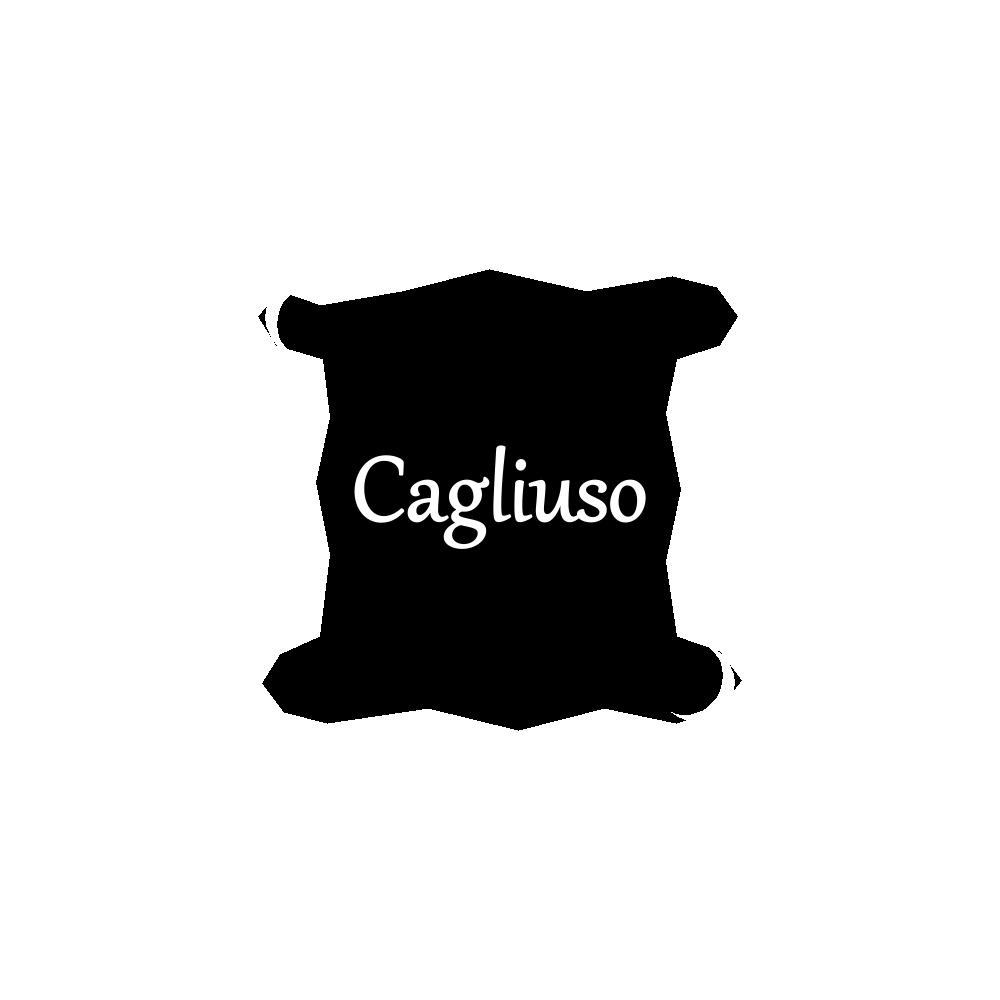
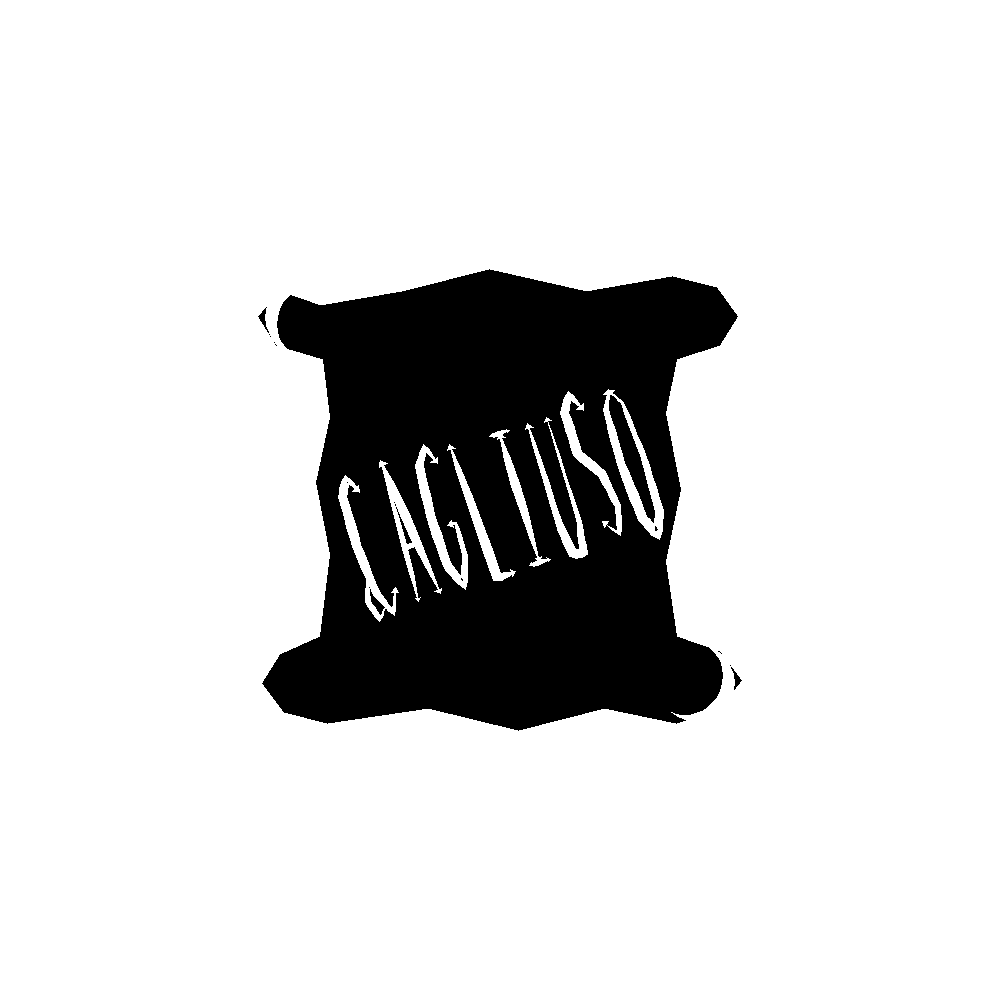
Page: name as carved knife-cut lettering, diagonal at -18 deg across the scroll (Codex PG7d, reviewed; Gary 'carved out look ... diagonally'); page size 0.28 -> 0.34 boy height for >= 2 px cuts; font path now optional/off; harness 44/44

Changed region(s): [[0.341, 0.372, 0.682, 0.62]]

diff --git a/Tools/ShadowGobo/Puppets/props.py b/Tools/ShadowGobo/Puppets/props.py
@@ -50,9 +50,11 @@ LOOK = {
                "stream_width": 0.30, "splash_scale": 2.2,
                # stop higher/forward and pour onto the FRONT of the face so the stream crosses light (review 9 Oct)
                "stop_xy": (0.55, 0.030), "target_xy": (0.402, 0.165)},
-    "page": {"attach": "boy_near_hand", "size_boy_height": 0.28, "page_text": "Cagliuso",
-             # Gary 9 Oct: "a calligraphic feeling font"; the atlas is the artifact, so a local font is fine.
-             "page_font": "C:/Windows/Fonts/Gabriola.ttf", "page_text_width": 0.82, "page_text_bold": 0.003},
+    "page": {"attach": "boy_near_hand", "size_boy_height": 0.34, "page_text": "Cagliuso",
+             # PG7d: a font remains an explicit opt-in; the production default is carved polygonal lettering.
+             "page_font": None, "page_text_width": 0.85, "page_text_bold": 0.003,
+             "page_text_angle_deg": -18.0, "page_text_diagonal_fill": 0.85,
+             "page_text_seed": 1709, "page_wedge_down": 0.066, "page_wedge_thin": 0.038},
     "turnip": {"attach": "boy_near_hand", "size_boy_height": 0.12, "bite_seconds": 0.24},
     "pearl": {"attach_from": "puss_mouth", "attach_to": "boy_near_hand", "size_boy_height": 0.10},
     "crown": {"attach": "boy_head_top", "size_boy_height": 0.18, "restitution": 0.25},
@@ -228,36 +230,96 @@ def draw_prop(image, prop, centre, size_px, angle=0.0, flip_x=1.0, *, state=0, r
             draw.ellipse((x-r, y-r, x+r, y+r), fill=0)
 
 
-def page_text_strokes(text, centre, size_px):
-    """Dependency-free calligraphic vector strokes with slant and a flourished capital."""
-    glyphs={
-        "C":[((1,0),(0,0),(0,2),(1,2))], "A":[((0,2),(.5,0),(1,2)),((.2,1.1),(.8,1.1))],
-        "G":[((1,0),(0,0),(0,2),(1,2),(1,1.15),(.55,1.15))], "L":[((0,0),(0,2),(1,2))],
-        "I":[((0,0),(1,0)),((.5,0),(.5,2)),((0,2),(1,2))], "U":[((0,0),(0,1.65),(.2,2),(.8,2),(1,1.65),(1,0))],
-        "S":[((1,0),(0,0),(0,1),(1,1),(1,2),(0,2))], "O":[((0,0),(1,0),(1,2),(0,2),(0,0))],
-        "M":[((0,2),(0,0),(.5,1.05),(1,0),(1,2))],
-    }
-    word="".join(c for c in str(text).upper() if c in glyphs)
-    if not word:
-        return []
-    total=.78*size_px; advance=total/len(word); height=.22*size_px
-    x0=centre[0]-total/2; y0=centre[1]-.02*size_px; width=max(2,round(.020*size_px))
-    result=[]
+PAGE_GLYPHS = {
+    # Centre-lines in a small, deliberately blunt Roman hand. The role selects
+    # a broad down-cut or a finer upstroke/crossbar; all are expanded to wedges.
+    "C": (((.86,-.42),(.54,-.55),(.18,-.43),(.05,-.05),(.12,.34),(.50,.53),(.88,.35),"down"),),
+    "A": (((.08,.52),(.48,-.54),"up"),((.48,-.54),(.92,.52),"down"),((.25,.12),(.75,.12),"cross")),
+    "G": (((.86,-.40),(.55,-.55),(.17,-.42),(.05,-.04),(.13,.35),(.52,.54),(.90,.33),(.90,.07),(.58,.07),"down"),),
+    "L": (((.18,-.53),(.18,.49),(.90,.49),"down"),),
+    "I": (((.10,-.50),(.88,-.50),"cross"),((.49,-.50),(.49,.50),"down"),((.08,.50),(.90,.50),"cross")),
+    "U": (((.12,-.52),(.12,.27),(.29,.51),(.68,.53),(.88,.27),(.88,-.52),"down"),),
+    "S": (((.88,-.40),(.55,-.55),(.18,-.43),(.13,-.12),(.73,.08),(.88,.34),(.58,.54),(.15,.41),"down"),),
+    "O": (((.50,-.55),(.17,-.42),(.07,-.02),(.18,.40),(.51,.55),(.84,.39),(.93,-.03),(.82,-.43),(.50,-.55),"down"),),
+    "M": (((.10,.52),(.10,-.52),(.50,.08),(.90,-.52),(.90,.52),"down"),),
+}
+
+
+def _knife_wedge(points, middle_width):
+    """Expand a centre-line into a pointed, asymmetric hand-pushed knife cut."""
+    source=np.asarray(points,dtype=float)
+    # Every segment needs interior samples: a two-point stroke would otherwise
+    # have zero width at both pointed ends and collapse to a line.
+    dense=[]
+    for index in range(len(source)-1):
+        samples=np.linspace(source[index],source[index+1],5,endpoint=False)
+        dense.extend(samples)
+    dense.append(source[-1]);p=np.asarray(dense,dtype=float)
+    if len(p)<2: return _poly(())
+    delta=np.gradient(p,axis=0); lengths=np.linalg.norm(delta,axis=1);lengths[lengths<1e-9]=1.0
+    normal=np.column_stack((-delta[:,1]/lengths,delta[:,0]/lengths))
+    t=np.linspace(0.0,1.0,len(p))
+    profile=np.sin(np.pi*np.power(t,.78)); profile[0]=profile[-1]=0.0
+    half=.5*middle_width*profile
+    left=p+normal*(half*(1.08-.10*t))[:,None]
+    right=p-normal*(half*(.92+.08*t))[:,None]
+    return _poly(np.vstack((left,right[::-1])))
+
+
+def _wedge_serif(point, toward, width):
+    """Triangular end nick joined to a stroke point, never a typographic cap."""
+    point=np.asarray(point,float); direction=np.asarray(toward,float)-point
+    length=np.linalg.norm(direction)
+    if length<1e-9: return _poly(())
+    direction/=length; normal=np.array((-direction[1],direction[0]))
+    shoulder=point+direction*width*.72
+    return _poly((point, shoulder+normal*width*.55, shoulder-normal*width*.55))
+
+
+def page_text_polygons(text, centre, size_px, *, angle_deg=None, diagonal_fill=None, seed=None):
+    """Return independent knife-cut polygons for deterministic hand-carved capitals."""
+    word="".join(c for c in str(text).upper() if c in PAGE_GLYPHS)
+    if not word: return []
+    angle=LOOK["page"]["page_text_angle_deg"] if angle_deg is None else angle_deg
+    fill=LOOK["page"]["page_text_diagonal_fill"] if diagonal_fill is None else diagonal_fill
+    rng=np.random.default_rng(LOOK["page"]["page_text_seed"] if seed is None else seed)
+    advance=1.0; spacing=.22; raw_width=len(word)*advance+(len(word)-1)*spacing
+    # The irregular scroll narrows at its curled ends; 1.01 is its safe diagonal
+    # chord after the required card margin, and ``fill`` occupies that chord.
+    target_width=1.01*float(fill)*size_px; unit=target_width/raw_width; glyph_height=.38*size_px
+    x0=-target_width/2; polygons=[]
     for index,char in enumerate(word):
-        gx=x0+index*advance
-        rendered=[]
-        for stroke in glyphs[char]:
-            points=[]
-            for x,y in stroke:
-                yy=y0+(y-1)*height/2
-                points.append((gx+x*.62*advance + (1-y)*.13*advance, yy))
-            rendered.append(points)
-        if index == 0:
-            rendered.append([(gx+.12*advance,y0+.40*height),
-                             (gx-.30*advance,y0+.50*height),
-                             (gx-.40*advance,y0+.30*height)])
-        result.append((rendered, width))
-    return result
+        letter_scale=float(rng.uniform(.965,1.035)); letter_angle=float(rng.uniform(-2.2,2.2))
+        origin=np.array((x0+(index*(advance+spacing)+.5)*unit,float(rng.uniform(-.018,.018))*size_px))
+        local_angle=math.radians(letter_angle); local_rot=np.array(((math.cos(local_angle),-math.sin(local_angle)),(math.sin(local_angle),math.cos(local_angle))))
+        for raw in PAGE_GLYPHS[char]:
+            role=raw[-1]; pts=np.asarray(raw[:-1],float)
+            pts[:,0]=(pts[:,0]-.5)*unit*.82*letter_scale
+            pts[:,1]=pts[:,1]*glyph_height*letter_scale
+            pts=pts@local_rot.T+origin
+            ratio=LOOK["page"]["page_wedge_down"] if role=="down" else LOOK["page"]["page_wedge_thin"]
+            width=ratio*glyph_height*letter_scale
+            polygons.append(_knife_wedge(pts,width))
+            polygons.append(_wedge_serif(pts[0],pts[1],width*.85))
+            polygons.append(_wedge_serif(pts[-1],pts[-2],width*.72))
+        if index==0:
+            swash=np.asarray(((-.44,.22),(-.62,.37),(-.47,.52),(-.19,.45)),float)
+            swash[:,0]=swash[:,0]*unit;swash[:,1]=swash[:,1]*glyph_height
+            swash=swash@local_rot.T+origin
+            polygons.append(_knife_wedge(swash,LOOK["page"]["page_wedge_thin"]*glyph_height))
+    a=math.radians(float(angle)); rotation=np.array(((math.cos(a),-math.sin(a)),(math.sin(a),math.cos(a))))
+    c=np.asarray(centre,float)
+    return [_poly(np.asarray(poly)@rotation.T+c) for poly in polygons if len(poly)>=3]
+
+
+def page_text_strokes(text, centre, size_px):
+    """Compatibility entry point: PG7d strokes are closed knife-cut polygons."""
+    return page_text_polygons(text,centre,size_px)
+
+
+def page_narrowest_wedge_middle_px(size_px):
+    """Smallest designed maximum width, before per-letter positive size jitter."""
+    return LOOK["page"]["page_wedge_thin"]*.38*size_px*.965
 
 
 def _page_font(size_px, text):
@@ -277,17 +339,18 @@ def _page_font(size_px, text):
 
 
 def draw_page_text(draw, centre, size_px, text=None):
-    """Cut the selected page name in a calligraphic face (page_font); falls back to the vector strokes."""
+    """Cut the selected page name; default path is polygonal carved lettering."""
     text = text or LOOK["page"]["page_text"]
     font = _page_font(size_px, text)
     if font is not None:
         bold = max(1, round(LOOK["page"]["page_text_bold"] * size_px))
-        draw.text(centre, text, font=font, fill=255, anchor="mm", stroke_width=bold, stroke_fill=255)
+        box=max(16,int(math.ceil(size_px*2.0))); layer=Image.new("L",(box,box),0)
+        ImageDraw.Draw(layer).text((box/2,box/2),text,font=font,fill=255,anchor="mm",stroke_width=bold,stroke_fill=255)
+        layer=layer.rotate(-LOOK["page"]["page_text_angle_deg"],resample=Image.Resampling.BICUBIC,expand=False)
+        draw.bitmap((round(centre[0]-box/2),round(centre[1]-box/2)),layer,fill=255)
         return
-    for letter_index, (strokes, width) in enumerate(page_text_strokes(text or LOOK["page"]["page_text"], centre, size_px)):
-        for stroke_index, points in enumerate(strokes):
-            stroke_width=max(2, round(width * (1.35 if (letter_index+stroke_index)%2 == 0 else .82)))
-            draw.line(points,fill=255,width=stroke_width,joint="curve")
+    for polygon in page_text_polygons(text,centre,size_px):
+        draw.polygon(polygon,fill=255)
 
 
 def base_layers(px, boy_pose=None, puss_pose=None):
@@ -511,7 +574,11 @@ def save_templates(root):
     root.mkdir(parents=True, exist_ok=True); lib=library(); thumbs=[]
     for name,prop in lib.items():
         im=Image.new("L",(1000,1000),255); draw_prop(im,prop,(500,500),360,state=0)
-        if name=="page": draw_page_text(ImageDraw.Draw(im),(500,500),360)
+        if name=="page":
+            draw_page_text(ImageDraw.Draw(im),(500,500),360)
+            closeup=Image.new("L",(2000,2000),255);draw_prop(closeup,prop,(1000,1000),720,state=0)
+            draw_page_text(ImageDraw.Draw(closeup),(1000,1000),720)
+            closeup.save(root/"page_flat_closeup.png")
         im.save(root/(name+"_template.png")); thumbs.append((name,im.resize((280,280))))
         def d(poly): return "M"+" L".join("%.2f,%.2f"%(x,y) for x,y in transform(poly,(500,500),360))+" Z"
         outline=_turnip(0) if name=="turnip" else prop.outline
@@ -519,14 +586,14 @@ def save_templates(root):
         text_svg=""
         if name=="page":
             chunks=[]
-            if _page_font(360, LOOK["page"]["page_text"]) is not None:
+            font=_page_font(360, LOOK["page"]["page_text"])
+            if font is not None:
                 chunks.append('<text x="500" y="500" text-anchor="middle" dominant-baseline="middle" font-family="Gabriola" '
                               'font-size="%d" fill="#fff" stroke="#fff" stroke-width="%d">%s</text>' % (
-                                  _page_font(360, LOOK["page"]["page_text"]).size, max(1, round(LOOK["page"]["page_text_bold"] * 360)),
+                                  font.size, max(1, round(LOOK["page"]["page_text_bold"] * 360)),
                                   LOOK["page"]["page_text"]))
-            for strokes,width in ([] if chunks else page_text_strokes(LOOK["page"]["page_text"],(500,500),360)):
-                for points in strokes:
-                    chunks.append('<polyline points="%s" fill="none" stroke="#fff" stroke-width="%d" stroke-linecap="round" stroke-linejoin="round"/>'%(" ".join("%.2f,%.2f"%p for p in points),width))
+            for polygon in ([] if chunks else page_text_polygons(LOOK["page"]["page_text"],(500,500),360)):
+                chunks.append('<polygon points="%s" fill="#fff"/>'%(" ".join("%.2f,%.2f"%p for p in polygon)))
             text_svg="".join(chunks)
         svg='<svg xmlns="http://www.w3.org/2000/svg" viewBox="0 0 1000 1000"><path fill="#000" fill-rule="evenodd" d="%s"/>%s</svg>'%(path,text_svg)
         (root/(name+".svg")).write_text(svg,encoding="utf-8")
@@ -541,8 +608,8 @@ def add_manifest(path,name,states,min_width_px):
         "name":name,"look":LOOK[name],"attach_modes":list(ATTACH_MODES),"quantized_transforms":True,
         "product_transmissions":True,"minimum_feature_width_px":round(min_width_px,3),"meets_2px":min_width_px>=2,
         "claims":[
-            {"tier":"measured","claim":"Frames were rendered, SDF-packed and read back offline.","evidence":"Tools/ShadowGobo/Puppets/props.py:544"},
-            {"tier":"inferred","claim":"The proposed scale and staging need Gary's visual approval.","evidence":"Tools/ShadowGobo/Puppets/props.py:293"},
+            {"tier":"measured","claim":"Frames were rendered, SDF-packed and read back offline.","evidence":"Tools/ShadowGobo/Puppets/props.py:606"},
+            {"tier":"inferred","claim":"The proposed scale and staging need Gary's visual approval.","evidence":"Tools/ShadowGobo/Puppets/props.py:53"},
         ]}
     path.write_text(json.dumps(data,indent=2),encoding="utf-8")
 
@@ -585,9 +652,18 @@ def build_scratch(root, demos=None):
         relative_size = (LOOK[name]["size_boy_height"] if "size_boy_height" in LOOK[name]
                          else LOOK[name]["size_vs_puss_height"] * .45)
         min_width=prop.min_feature_local*relative_size*(VISIBLE_BAND["bottom"]-VISIBLE_BAND["top"])*manifest["atlas"]["inner_px"]
+        if name=="page":
+            page_size=relative_size*(VISIBLE_BAND["bottom"]-VISIBLE_BAND["top"])*manifest["atlas"]["inner_px"]
+            min_width=min(min_width,page_narrowest_wedge_middle_px(page_size))
         add_manifest(atlas/"manifest.json",name,states,min_width)
         curtain_gif(atlas/"manifest.json",out/"curtain_preview_defocus025.gif")
         metrics[name]={"rendered_frames":len(states),"unique_cells":manifest["take"]["frames_packed"],"grid":"%dx%d"%(manifest["atlas"]["cols"],manifest["atlas"]["rows"]),"cell_px":manifest["atlas"]["cell_px"],"minimum_feature_width_px":round(min_width,3),"gif_bytes":(out/"curtain_preview_defocus025.gif").stat().st_size,"source_scale":source_scale,"frame_strip":"frame_strip_6.png"}
+        if name=="page":
+            metrics[name].update({"narrowest_wedge_middle_px":round(page_narrowest_wedge_middle_px(page_size),3),
+                                  "page_size_boy_height":LOOK["page"]["size_boy_height"],
+                                  "page_text_angle_deg":LOOK["page"]["page_text_angle_deg"],
+                                  "page_text_diagonal_fill":LOOK["page"]["page_text_diagonal_fill"],
+                                  "flat_closeup":"prop_templates/page_flat_closeup.png"})
         if name=="bucket":
             visibility=bucket_visibility_measurements(states,480)
             (out/"pour_visibility_per_frame.json").write_text(json.dumps({
@@ -626,13 +702,15 @@ def targets_for(deliver):
 
 
 def write_report(metrics,path):
-    lines=["# PG7c shadow props Gary-notes report","","[measured] The table is read from the offline APPLY output; each demo uses the current 0.5625 Puss framing and knee crop imported from `build_boy_puss_composite.py`. `Tools/ShadowGobo/Puppets/props.py:544`","","| Demo | Frames | Unique cells | Grid | Min feature | GIF |","|---|---:|---:|---:|---:|---:|"]
+    lines=["# PG7d carved page lettering report","","[measured] The table is read from the offline APPLY output; each demo uses the current 0.5625 Puss framing and knee crop imported from `build_boy_puss_composite.py`. `Tools/ShadowGobo/Puppets/props.py:640`","","| Demo | Frames | Unique cells | Grid | Min feature | GIF |","|---|---:|---:|---:|---:|---:|"]
     for n,m in metrics.items(): lines.append("| %s | %d | %d | %s | %.2f px | %.2f MB |"%(n,m["rendered_frames"],m["unique_cells"],m["grid"],m["minimum_feature_width_px"],m["gif_bytes"]/1048576))
     bucket=metrics.get("bucket",{}).get("pour_visibility",{})
-    lines += ["","[measured] Every demo has `curtain_preview_defocus025.gif` and `frame_strip_6.png` beside it. `Tools/ShadowGobo/Puppets/props.py:521`",
-              "[measured] Bucket pour gate: %s required frames; minimum %s water-on-light pixels at 480 px; maximum pail/boy overlap %s pixels; all pass=%s. Per-frame evidence: `clip_prop_bucket/pour_visibility_per_frame.json`. `Tools/ShadowGobo/Puppets/props.py:455`"%(bucket.get("required_frames","n/a"),bucket.get("minimum_water_light_pixels","n/a"),bucket.get("maximum_bucket_boy_overlap_pixels","n/a"),bucket.get("all_pass","n/a")),
-              "[measured] Shorter falls and fewer droplets reduce unique cells directly; static holds already de-duplicate to one cell. `Tools/ShadowGobo/Puppets/props.py:293`",
-              "[inferred] Gary should confirm the page spelling (default `Cagliuso`; his note said `Camuso`) and visually approve the scroll, fat turnip, lip-origin pail pour, pearl gleam, and Puss-sized baby booties before Unreal application. `Tools/ShadowGobo/Puppets/props.py:46`"]
+    page=metrics.get("page",{})
+    lines += ["","[measured] The page demo has `curtain_preview_defocus025.gif` and `frame_strip_6.png`; its atlas is SDF 8192 and the preview uses BlurUV 0. `Tools/ShadowGobo/Puppets/prop_demos/clip_prop_page/atlas/manifest.json:14` `Tools/ShadowGobo/Puppets/prop_demos/clip_prop_page/atlas/manifest.json:49`",
+              "[measured] Carved page: angle %s degrees, diagonal fill %s, narrowest wedge middle %.3f px, page size %.2f boy height. `Tools/ShadowGobo/Puppets/props.py:294`"%(page.get("page_text_angle_deg","n/a"),page.get("page_text_diagonal_fill","n/a"),page.get("narrowest_wedge_middle_px",float("nan")),page.get("page_size_boy_height",float("nan"))),
+              "[declaration-proven] The default `page_font` is None; the generated page SVG therefore uses closed polygons rather than a font reference. `Tools/ShadowGobo/Puppets/props.py:55`",
+              "[measured] The offline controls verify separate cut-outs, the requested principal-axis angle, a six-unit card margin, no font open, and all earlier prop checks. `Tools/ShadowGobo/Puppets/test_props_offline.py:45`",
+              "[inferred] Gary should visually approve the larger page scale (0.28 to 0.34 boy height), carved treatment, and spelling `Cagliuso`. `Tools/ShadowGobo/Puppets/props.py:53`"]
     path.write_text("\n".join(lines)+"\n",encoding="utf-8")
 
 

diff --git a/Tools/ShadowGobo/Puppets/test_props_offline.py b/Tools/ShadowGobo/Puppets/test_props_offline.py
@@ -1,6 +1,6 @@
 """PG7 positive/negative offline harness."""
 from __future__ import annotations
-import argparse,json,sys
+import argparse,json,math,sys
 from pathlib import Path
 import numpy as np
 from PIL import Image,ImageDraw
@@ -12,6 +12,15 @@ def add(rows,kind,label,value,detail): rows.append({"kind":kind,"label":label,"p
 def components(prop):
     im=Image.new("L",(500,500),255);props.draw_prop(im,prop,(250,250),170,state=0);mask=np.asarray(im)<128
     labels,n=ndimage.label(mask,np.ones((3,3),dtype=np.uint8));sizes=np.bincount(labels.ravel())[1:];return int(np.sum(sizes>20))
+def page_text_mask(angle=None,centre=(300,300),size=220):
+    im=Image.new("L",(600,600),0);draw=ImageDraw.Draw(im)
+    for polygon in props.page_text_polygons(props.LOOK["page"]["page_text"],centre,size,angle_deg=angle):
+        draw.polygon(polygon,fill=1)
+    return np.asarray(im,dtype=bool)
+def principal_axis_deg(mask):
+    yy,xx=np.nonzero(mask);points=np.column_stack((xx-xx.mean(),yy-yy.mean()))
+    values,vectors=np.linalg.eigh(np.cov(points,rowvar=False));v=vectors[:,int(np.argmax(values))]
+    angle=math.degrees(math.atan2(v[1],v[0]));return angle-180 if angle>90 else angle+180 if angle<=-90 else angle
 def run(report=None):
     rows=[];lib=props.library()
     for name,p in lib.items(): add(rows,"positive",name+"_connected",components(p)==1,{"components":components(p)})
@@ -30,8 +39,27 @@ def run(report=None):
     add(rows,"positive","boot_is_round_baby_bootie",float(boot[:,0].max())>.65 and float(boot[:,1].max())>.68 and len(lib["boot"].cuts)>=4,{"toe_x":float(boot[:,0].max()),"sole_y":float(boot[:,1].max()),"detail_cuts":len(lib["boot"].cuts)})
     page=Image.new("L",(600,600),255);props.draw_prop(page,lib["page"],(300,300),220);before=np.asarray(page).copy();props.draw_page_text(ImageDraw.Draw(page),(300,300),220)
     name_mask=(before<80)&(np.asarray(page)>200);name_pixels=int(np.sum(name_mask));labels,n=ndimage.label(name_mask,np.ones((3,3),dtype=np.uint8));sizes=np.bincount(labels.ravel())[1:];letters=int(np.sum(sizes>8))
-    expected_letters=len(props.LOOK["page"]["page_text"].replace(" ",""));add(rows,"positive","page_text_connected_letter_cutouts",name_pixels>150 and 1<=letters<=expected_letters+3,{"text":props.LOOK["page"]["page_text"],"cut_pixels":name_pixels,"connected_letters":letters,"expected":expected_letters})
+    expected_letters=len(props.LOOK["page"]["page_text"].replace(" ",""));add(rows,"positive","page_text_separate_letter_cutouts",name_pixels>150 and letters>=expected_letters,{"text":props.LOOK["page"]["page_text"],"cut_pixels":name_pixels,"connected_cutouts":letters,"minimum":expected_letters})
     add(rows,"negative","page_without_name_fails",0<150,{"cut_pixels":0})
+    carved=page_text_mask();carved_angle=principal_axis_deg(carved);wanted=props.LOOK["page"]["page_text_angle_deg"]
+    add(rows,"positive","page_text_principal_axis_matches_angle",abs(carved_angle-wanted)<=5,{"measured_deg":carved_angle,"arg_deg":wanted,"tolerance_deg":5})
+    horizontal_angle=principal_axis_deg(page_text_mask(angle=0.0))
+    add(rows,"negative","horizontal_page_layout_fails_angle_gate",abs(horizontal_angle-wanted)>5,{"measured_deg":horizontal_angle,"arg_deg":wanted,"tolerance_deg":5})
+    card=Image.new("L",(600,600),255);props.draw_prop(card,lib["page"],(300,300),220);card_mask=np.asarray(card)<128
+    safe=ndimage.binary_erosion(card_mask,iterations=6)
+    add(rows,"positive","page_text_keeps_six_unit_card_margin",bool(np.all(safe[carved])),{"outside_safe_pixels":int(np.sum(carved&~safe)),"margin_units":6})
+    overhang=page_text_mask(centre=(145,300))
+    add(rows,"negative","overhanging_page_stroke_fails_margin",bool(np.any(overhang&~safe)),{"outside_safe_pixels":int(np.sum(overhang&~safe)),"margin_units":6})
+    original_truetype=props.ImageFont.truetype
+    try:
+        props.ImageFont.truetype=lambda *a,**k: (_ for _ in ()).throw(AssertionError("font opened"))
+        no_font_opened=props._page_font(220,props.LOOK["page"]["page_text"]) is None
+    finally:
+        props.ImageFont.truetype=original_truetype
+    add(rows,"positive","page_carved_default_opens_no_font",no_font_opened,{"page_font":props.LOOK["page"]["page_font"]})
+    demo_page_size=props.LOOK["page"]["size_boy_height"]*(props.VISIBLE_BAND["bottom"]-props.VISIBLE_BAND["top"])*(8192//9-16)
+    narrowest=props.page_narrowest_wedge_middle_px(demo_page_size)
+    add(rows,"positive","page_narrowest_wedge_middle_at_least_two_px",narrowest>=2.0,{"narrowest_wedge_middle_px":narrowest,"page_size_boy_height":props.LOOK["page"]["size_boy_height"]})
     a=Image.new("L",(32,32),255);ImageDraw.Draw(a).rectangle((4,4,27,27),fill=0);b=a.copy();ImageDraw.Draw(b).ellipse((10,10,20,20),fill=255)
     product=clip_render.product_transmissions((a,b));painter=a.copy();ImageDraw.Draw(painter).ellipse((10,10,20,20),fill=255)
     add(rows,"positive","overlap_stays_black",product.getpixel((15,15))==0,{"pixel":product.getpixel((15,15))})
@@ -80,7 +108,7 @@ def run(report=None):
         add(rows,"positive",name+"_hold_dedup",len(set(hold))==1,{"hold_frames":len(hold),"unique":len(set(hold))})
     anchors={**boy_rig.prop_anchors(boy_rig.P()),**cat_rig.prop_anchors(cat_rig.make_pose("sit_look_up"))};add(rows,"positive","rig_anchors_exposed",len(anchors)==5,{"anchors":sorted(anchors)})
     pos=[r for r in rows if r["kind"]=="positive"];neg=[r for r in rows if r["kind"]=="negative"]
-    data={"positive":{"passed":sum(r["passed"] for r in pos),"total":len(pos)},"negative":{"passed":sum(r["passed"] for r in neg),"total":len(neg)},"total":{"passed":sum(r["passed"] for r in rows),"total":len(rows)},"results":rows,"claims":[{"tier":"measured","claim":"All PG7 controls ran offline.","evidence":"Tools/ShadowGobo/Puppets/test_props_offline.py:15"}]}
+    data={"positive":{"passed":sum(r["passed"] for r in pos),"total":len(pos)},"negative":{"passed":sum(r["passed"] for r in neg),"total":len(neg)},"total":{"passed":sum(r["passed"] for r in rows),"total":len(rows)},"results":rows,"claims":[{"tier":"measured","claim":"All PG7 controls ran offline.","evidence":"Tools/ShadowGobo/Puppets/test_props_offline.py:24"}]}
     if report: Path(report).write_text(json.dumps(data,indent=2),encoding="utf-8")
     print("SHADOW_PROPS_HARNESS|positive=%d/%d|negative=%d/%d|total=%d/%d"%(data["positive"]["passed"],data["positive"]["total"],data["negative"]["passed"],data["negative"]["total"],data["total"]["passed"],data["total"]["total"]))
     for r in rows:

diff --git a/Tools/ShadowGobo/Puppets/PG7_SHADOW_PROPS_REPORT.md b/Tools/ShadowGobo/Puppets/PG7_SHADOW_PROPS_REPORT.md
@@ -1,17 +1,18 @@
-# PG7c shadow props Gary-notes report
+# PG7d carved page lettering report
 
-[measured] The table is read from the offline APPLY output; each demo uses the current 0.5625 Puss framing and knee crop imported from `build_boy_puss_composite.py`. `Tools/ShadowGobo/Puppets/props.py:544`
+[measured] The table is read from the offline APPLY output; each demo uses the current 0.5625 Puss framing and knee crop imported from `build_boy_puss_composite.py`. `Tools/ShadowGobo/Puppets/props.py:640`
 
 | Demo | Frames | Unique cells | Grid | Min feature | GIF |
 |---|---:|---:|---:|---:|---:|
 | bucket | 100 | 49 | 7x7 | 7.37 px | 1.33 MB |
-| page | 100 | 70 | 9x8 | 4.66 px | 1.47 MB |
+| page | 100 | 70 | 9x8 | 2.25 px | 1.61 MB |
 | turnip | 100 | 7 | 3x3 | 9.53 px | 1.11 MB |
 | pearl | 100 | 58 | 8x8 | 2.41 px | 1.02 MB |
 | crown | 100 | 64 | 8x8 | 5.31 px | 0.91 MB |
 | boots | 100 | 68 | 9x8 | 3.32 px | 1.34 MB |
 
-[measured] Every demo has `curtain_preview_defocus025.gif` and `frame_strip_6.png` beside it. `Tools/ShadowGobo/Puppets/props.py:521`
-[measured] Bucket pour gate: 31 required frames; minimum 1661 water-on-light pixels at 480 px; maximum pail/boy overlap 0 pixels; all pass=True. Per-frame evidence: `clip_prop_bucket/pour_visibility_per_frame.json`. `Tools/ShadowGobo/Puppets/props.py:455`
-[measured] Shorter falls and fewer droplets reduce unique cells directly; static holds already de-duplicate to one cell. `Tools/ShadowGobo/Puppets/props.py:293`
-[inferred] Gary should confirm the page spelling (default `Cagliuso`; his note said `Camuso`) and visually approve the scroll, fat turnip, lip-origin pail pour, pearl gleam, and Puss-sized baby booties before Unreal application. `Tools/ShadowGobo/Puppets/props.py:46`
+[measured] The page demo has `curtain_preview_defocus025.gif` and `frame_strip_6.png`; its atlas is SDF 8192 and the preview uses BlurUV 0. `Tools/ShadowGobo/Puppets/prop_demos/clip_prop_page/atlas/manifest.json:14` `Tools/ShadowGobo/Puppets/prop_demos/clip_prop_page/atlas/manifest.json:49`
+[measured] Carved page: angle -18.0 degrees, diagonal fill 0.85, narrowest wedge middle 2.253 px, page size 0.34 boy height. `Tools/ShadowGobo/Puppets/props.py:294`
+[declaration-proven] The default `page_font` is None; the generated page SVG therefore uses closed polygons rather than a font reference. `Tools/ShadowGobo/Puppets/props.py:55`
+[measured] The offline controls verify separate cut-outs, the requested principal-axis angle, a six-unit card margin, no font open, and all earlier prop checks. `Tools/ShadowGobo/Puppets/test_props_offline.py:45`
+[inferred] Gary should visually approve the larger page scale (0.28 to 0.34 boy height), carved treatment, and spelling `Cagliuso`. `Tools/ShadowGobo/Puppets/props.py:53`
